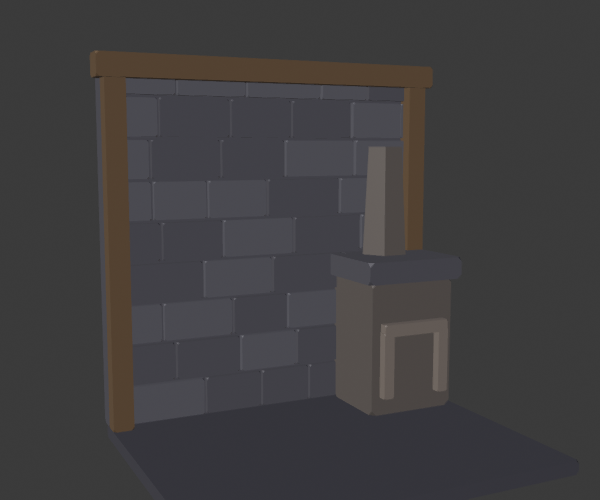
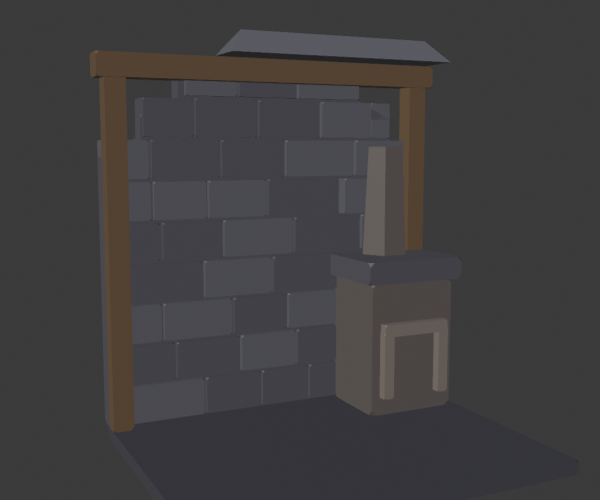
vault backup: 2026-11-28 20:29:29

Changed region(s): [[0.36, 0.06, 0.75, 0.12], [0.66, 0.18, 0.69, 0.27], [0.21, 0.15, 0.27, 0.18]]

diff --git a/GYM ARC/Art/GemMine/build_forge.py b/GYM ARC/Art/GemMine/build_forge.py
@@ -41,20 +41,32 @@ def tcyl(col, c, r0, r1, h, n=6):
     hull(col, pts)
 
 # back wall: core slab, then masonry rows on the back face (z 6.5 out) and the front face (z 5.5 out)
-cbox("StoneA", (0, 0.08, 6.0), (14, 14, 0.8), 0.15)
+# (MAP-6: "reads like a tall boxy block": the top two courses step in 1.5 per side under a sloped cap, and two blocks
+# on the left stick out 0.35 more)
+cbox("StoneA", (0, -1.66, 6.0), (14, 10.52, 0.8), 0.15)
+cbox("StoneA", (0, 4.4, 6.0), (11, 1.6, 0.8), 0.1)
+cbox("StoneA", (0, 6.14, 6.0), (8, 1.88, 0.8), 0.1)
 y = -6.9
 row = 0
 while y < 7.0:
     h = 1.6 if y + 1.6 < 7.05 else 7.05 - y
-    x = -7.0 + (0.9 if row % 2 else 0.0)
-    if row % 2: cbox("StoneB", (-7.0 + 0.45, y + h / 2, 6.0), (0.9, h - 0.12, 1.2), 0.07)
-    while x < 6.95:
-        w = min(random.uniform(2.2, 3.4), 7.0 - x)
+    inset = 0.0 if y < 3.6 else (1.5 if y < 5.2 else 3.0)
+    x0, x1 = -7.0 + inset, 7.0 - inset
+    x = x0 + (0.9 if row % 2 else 0.0)
+    if row % 2: cbox("StoneB", (x0 + 0.45, y + h / 2, 6.0), (0.9, h - 0.12, 1.2), 0.07)
+    while x < x1 - 0.05:
+        w = min(random.uniform(2.2, 3.4), x1 - x)
         if w > 0.5:
             col = "StoneB" if random.random() < 0.5 else "StoneA"
-            cbox(col, (x + w / 2, y + h / 2, 6.0), (w - 0.12, h - 0.12, 1.2 + random.uniform(0, 0.12)), 0.08)
+            deep = 0.7 if (row in (2, 5) and x < x0 + 1.0) else 0.0
+            cbox(col, (x + w / 2, y + h / 2, 6.0), (w - 0.12, h - 0.12, 1.2 + random.uniform(0, 0.12) + deep), 0.08)
         x += w
     y += h; row += 1
+# sloped cap on the stepped top: a low faceted ridge along X
+hull("StoneB", [R(sx * 4.2, 7.0, sz * 0.8) for sx in (-1, 1) for sz in (-1, 1)] + [R(sx * 3.6, 7.8, 0) for sx in (-1, 1)])
+for sx in (-1, 1):  # sloped shoulders where each course steps in
+    hull("StoneA", [R(sx * 7.0, 3.55, z) for z in (5.4, 6.6)] + [R(sx * 5.5, 3.55, z) for z in (5.4, 6.6)] + [R(sx * 5.5, 4.3, z) for z in (5.4, 6.6)])
+    hull("StoneA", [R(sx * 5.5, 5.15, z) for z in (5.4, 6.6)] + [R(sx * 4.0, 5.15, z) for z in (5.4, 6.6)] + [R(sx * 4.0, 5.9, z) for z in (5.4, 6.6)])
 # timber
 for px in (6.6, -6.6): cbox("Wood", (px, 0.08, 5.3), (0.8, 14, 0.8), 0.12)
 cbox("Wood", (0, 6.98, 5.3), (14.6, 0.9, 1.0), 0.12)
